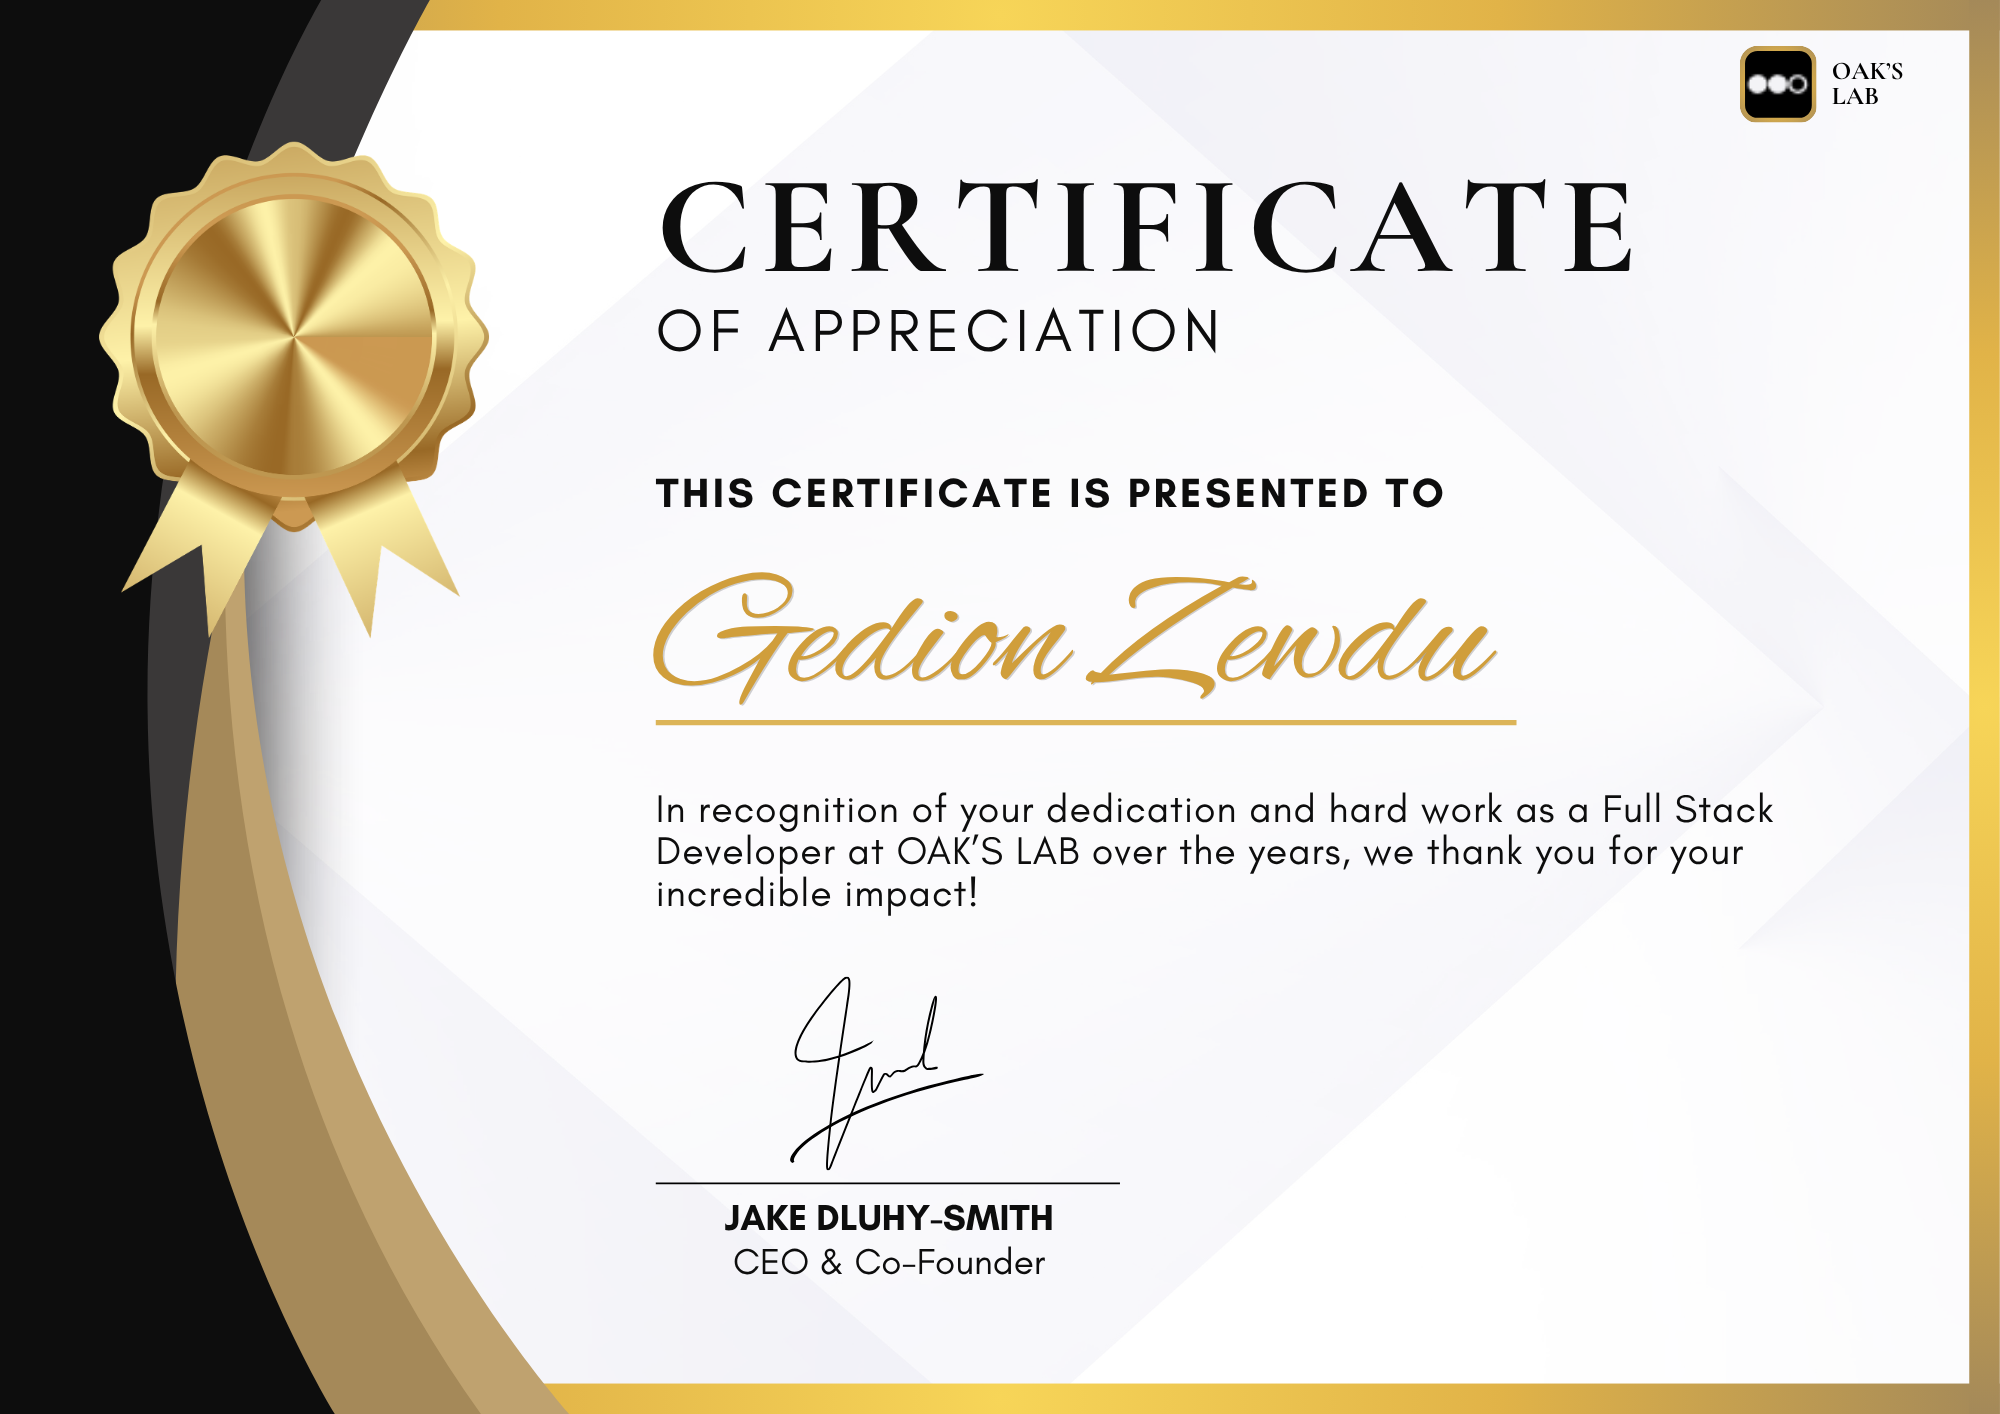
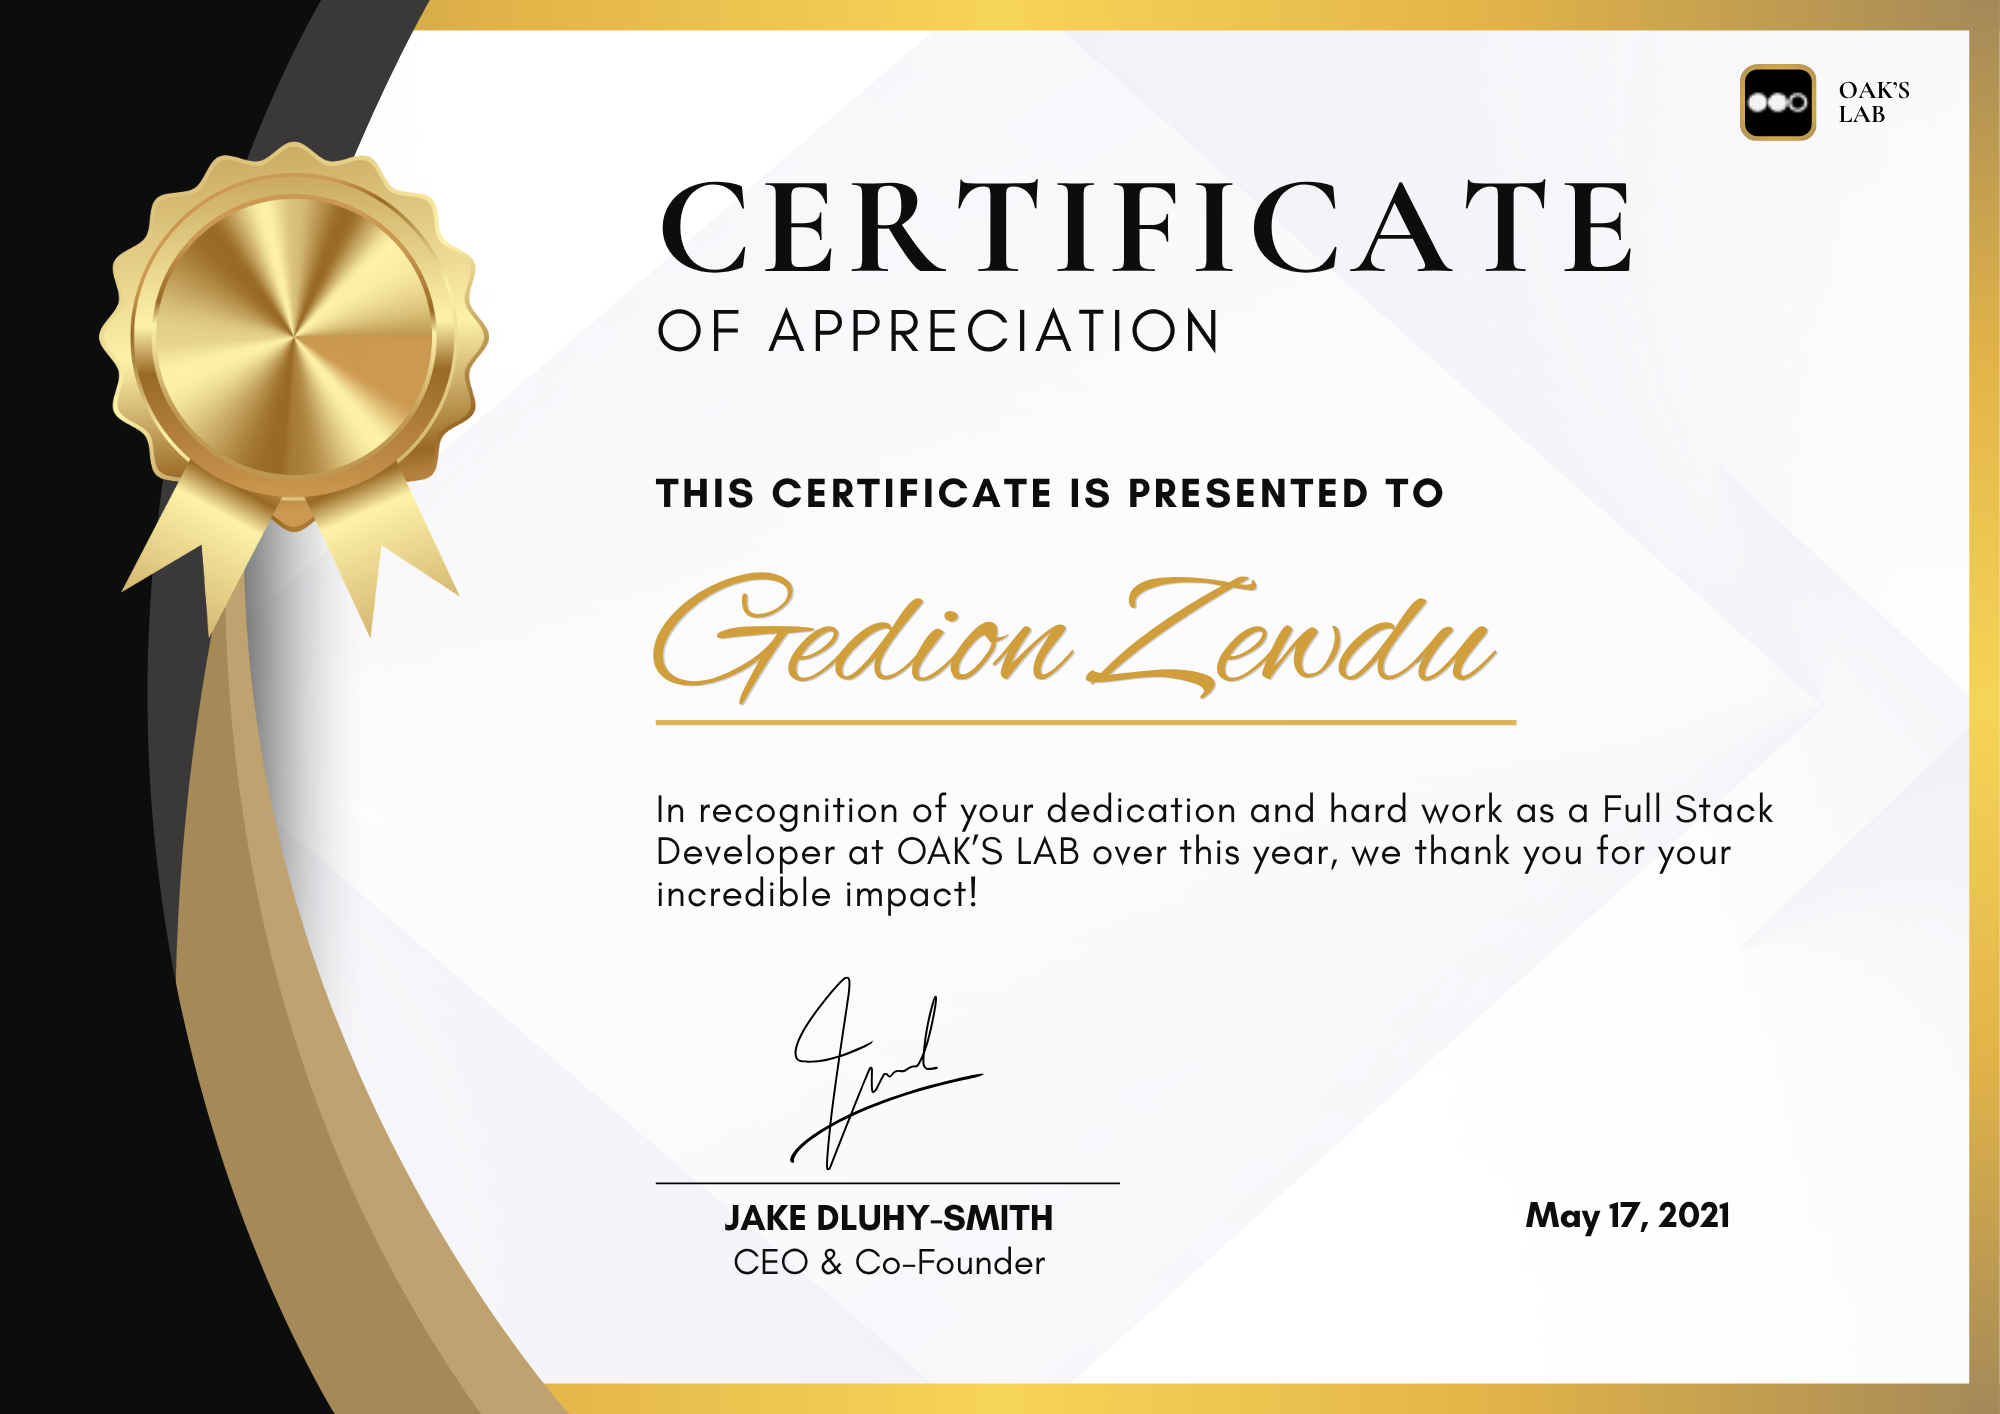
Organize: Move assets, branding, and docs

Changed region(s): [[0.589, 0.5912, 0.868, 0.6223], [0.868, 0.0311, 0.961, 0.1245], [0.744, 0.8402, 0.868, 0.8713]]

diff --git a/src/constants.ts b/src/constants.ts
@@ -104,13 +104,13 @@ export const CERTIFICATIONS: Certification[] = [
     title: "Certificate of Achievement",
     issuer: "Gebeya",
     image: "https://raw.githubusercontent.com/gedionzewdu/portfolio/main/assets/Full-Stack%20Development%20Certificate%20of%20Achievement%20from%20Gebeya%20-%20Gedion%20Zewdu.jpg",
-    description: "Honored to receive a Certificate of Achievement in Full-Stack Development from Gebeya. Excited for the journey ahead!"
+    description: "Proud to be certified in Full Stack Development by Gebeya. I’m excited to bring these sharpened skills to my next professional challenge."
   },
   {
     title: "Certificate of Appreciation",
     issuer: "OAK'S LAB",
     image: "https://raw.githubusercontent.com/gedionzewdu/portfolio/main/assets/Certificate%20of%20Appreciation%20From%20OAK'S%20LAB%20-%20Gedion%20Zewdu.png",
-    description: "Grateful to receive this Certificate of Recognition for my dedication and hard work at OAK'S LAB. Looking forward to continuing to contribute and grow!"
+    description: "Grateful to have received this Certificate of Appreciation for my time at OAK'S LAB. It was a privilege to contribute to such a great team."
   }
 ];
 
